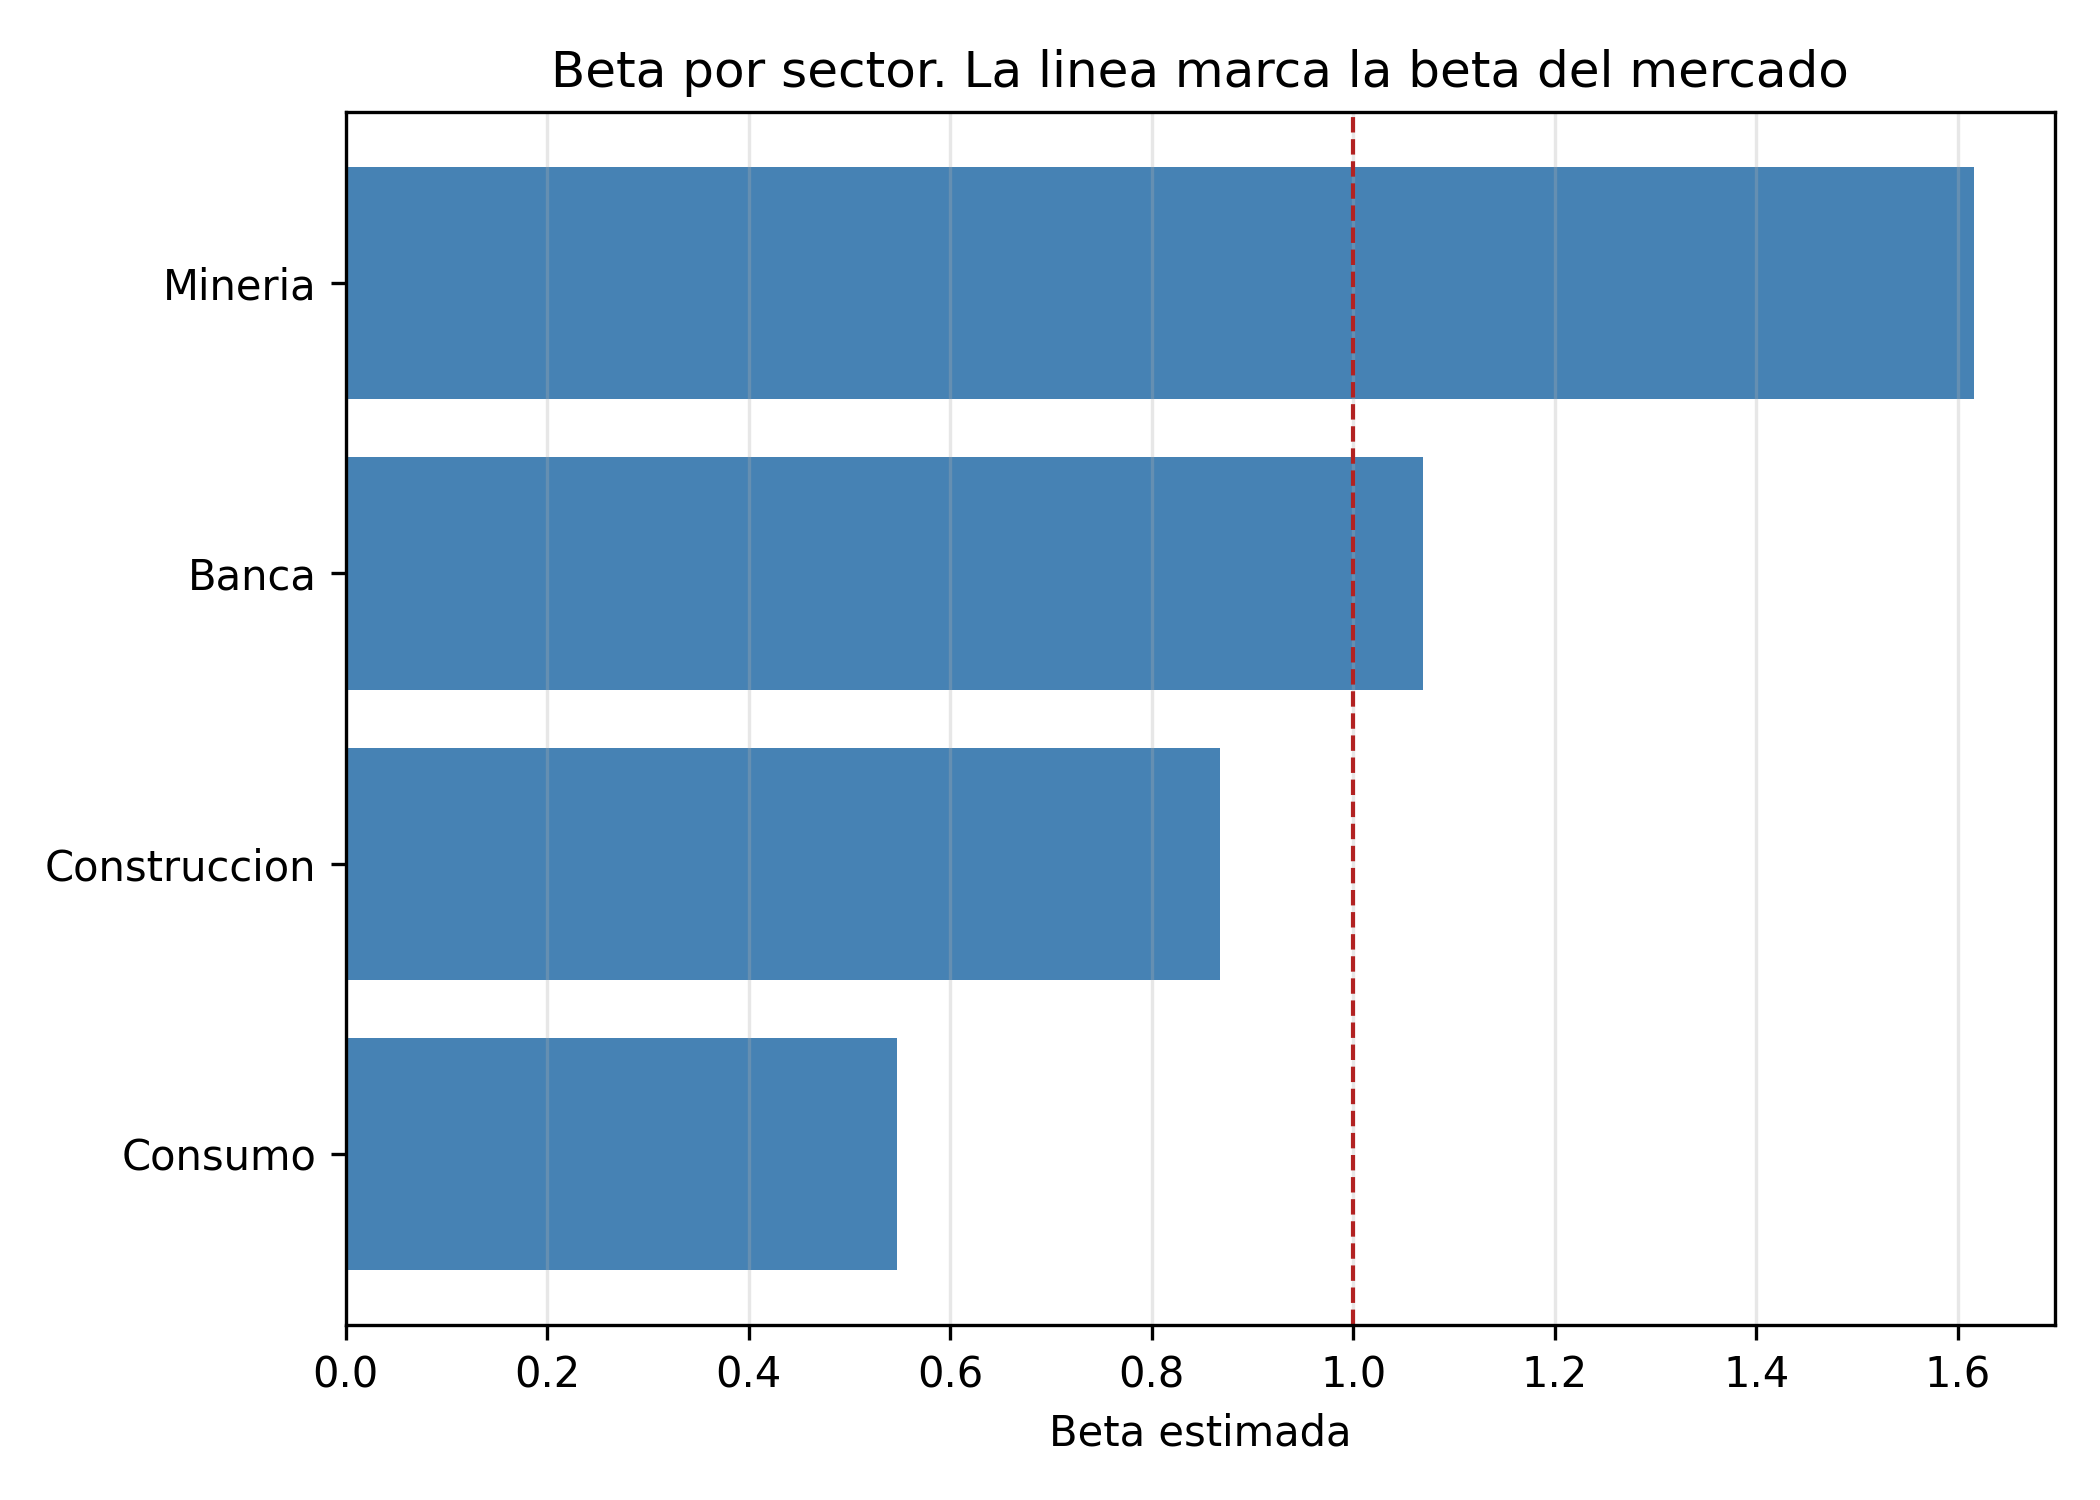
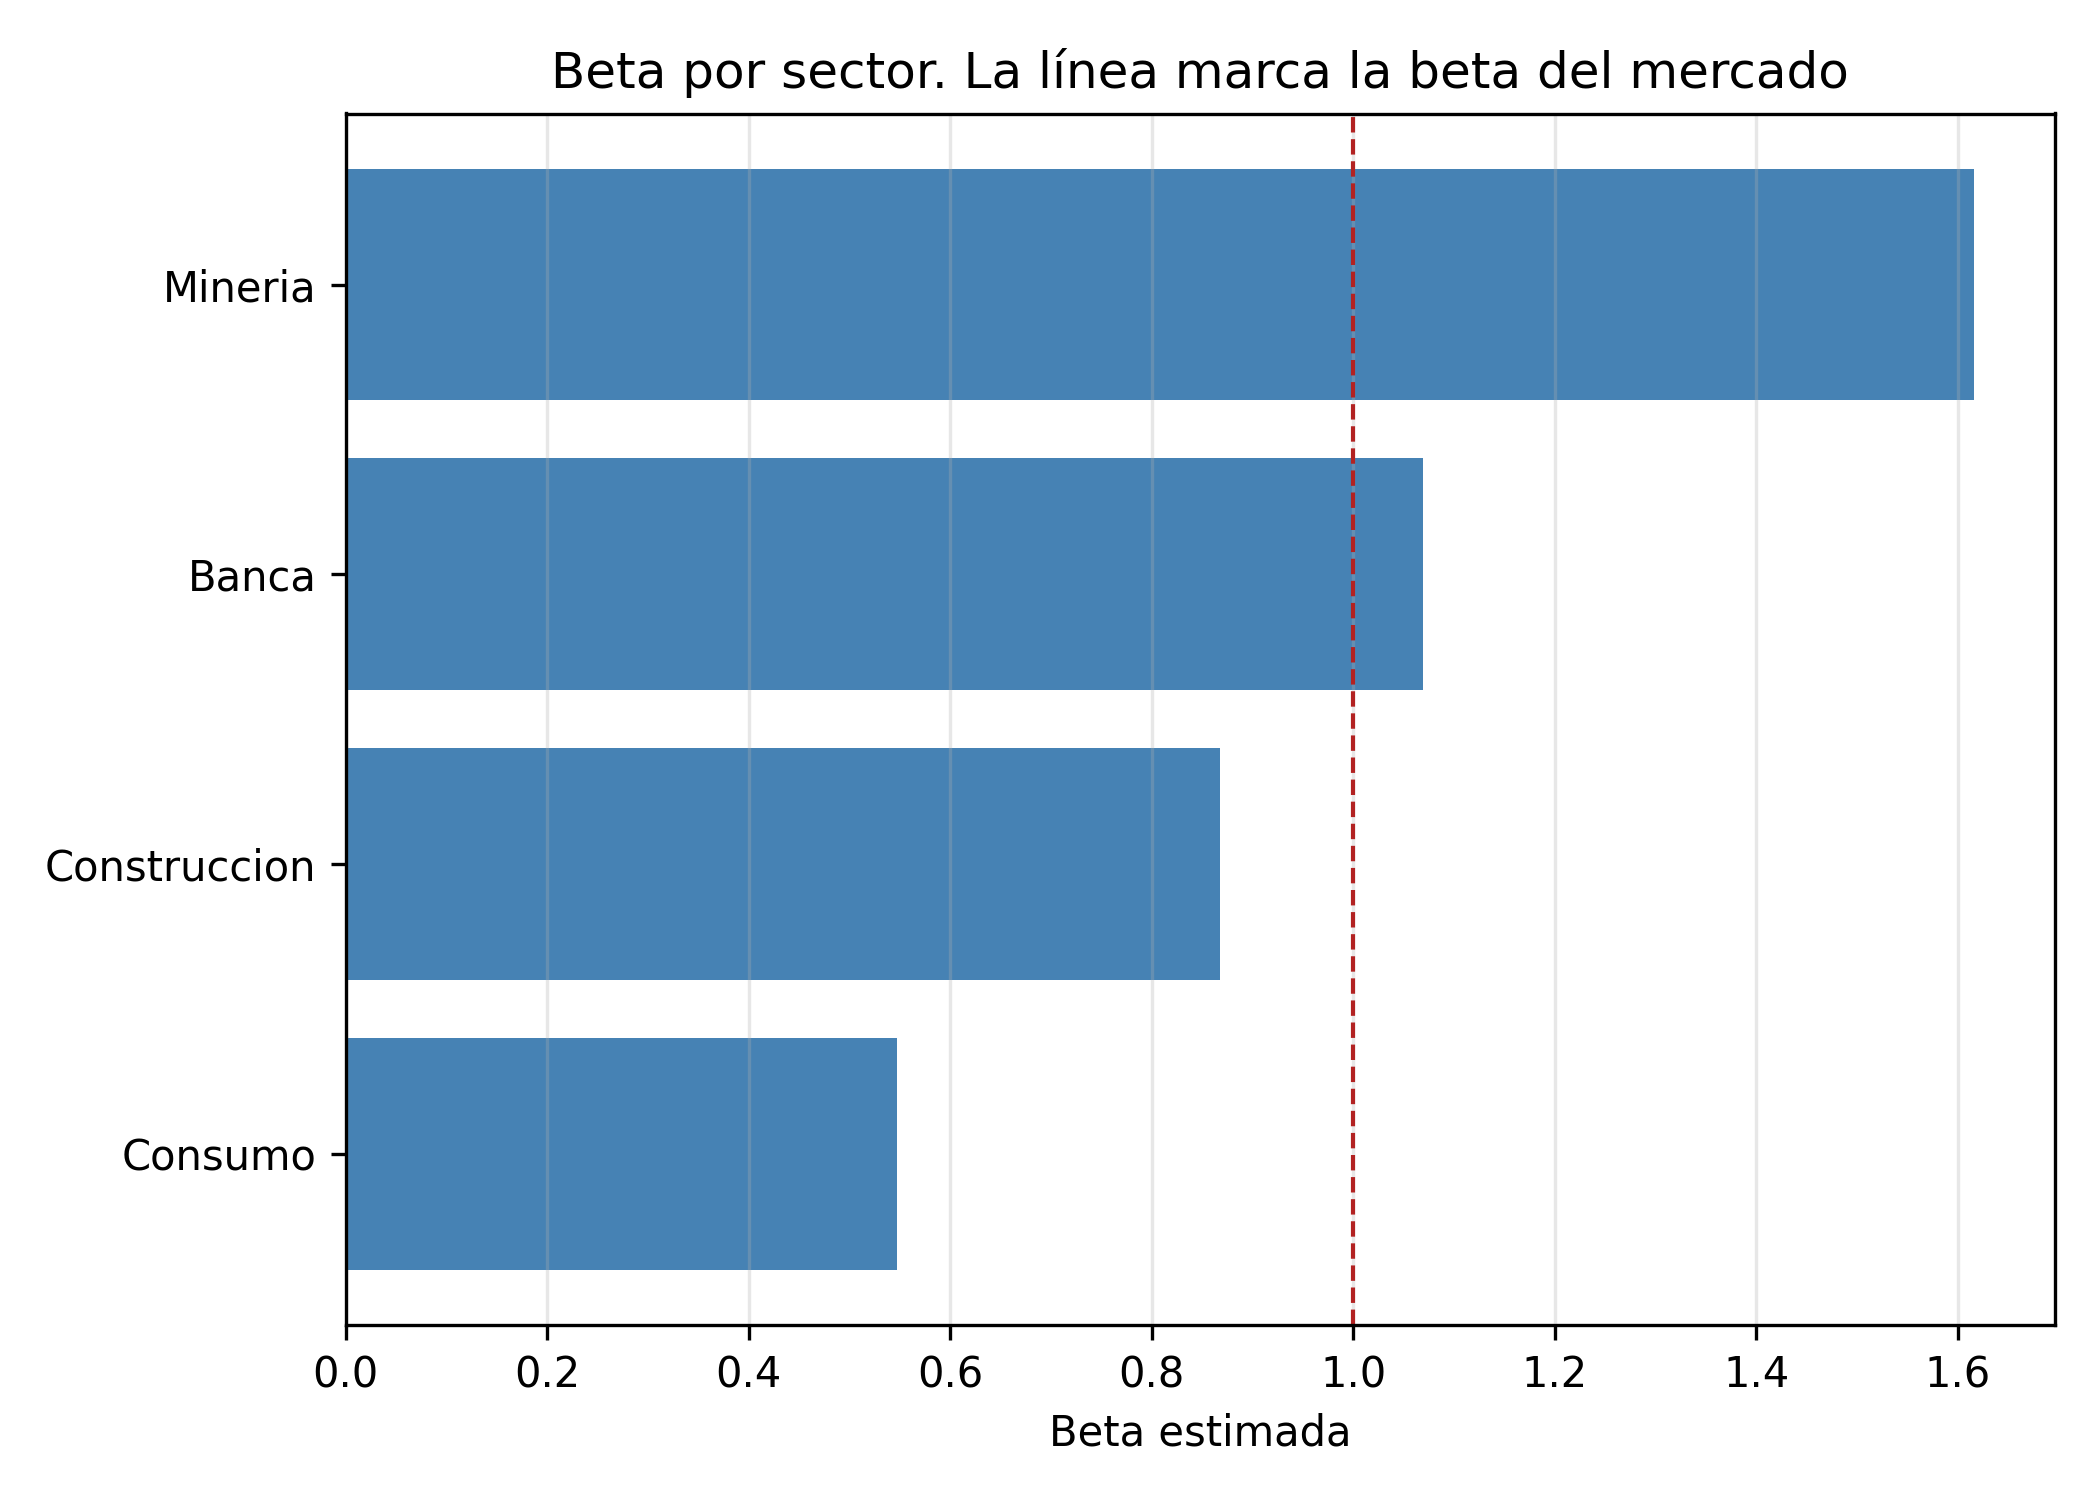
Fecha de extraccion en los scripts, tildes en figuras y evidencia del cotejo

Changed region(s): [[0.1857, 0.0307, 0.9595, 0.092], [0.0929, 0.368, 0.1548, 0.3987], [0.0929, 0.184, 0.1548, 0.2147]]

diff --git a/codigo/04_analisis.py b/codigo/04_analisis.py
@@ -1,7 +1,7 @@
 # Meglinho Sneyder Rojas Poma
 # Codigo de matricula: 2024200522B
 # Tema 61 del temario: Costo de capital por sector en la BVL: mineria, banca, consumo y construccion
-# Fecha de extraccion: COMPLETAR (AAAA-MM-DD, el dia que ejecutes la extraccion)
+# Fecha de extraccion: 2026-11-01
 
 """
 ANALISIS. Genera TODAS las tablas y figuras del articulo.
@@ -225,7 +225,7 @@ def main():
         sub = d[d.sector == s].sort_values("fecha")
         plt.plot(sub.fecha, sub.Y_retorno_sector.cumsum(), label=ETQ[s], lw=1)
     plt.xlabel("Fecha"); plt.ylabel("Retorno acumulado (%)")
-    plt.title("Evolucion acumulada de las cuatro carteras sectoriales, 2021-2026")
+    plt.title("Evolución acumulada de las cuatro carteras sectoriales, 2021-2026")
     plt.legend(); plt.grid(alpha=.3)
     guardar_figura("figura1_evolucion_sectorial")
 
@@ -235,7 +235,7 @@ def main():
         sub = d[d.sector == s].sort_values("fecha")
         eje.plot(sub.fecha, sub.Y_retorno_sector, lw=.5)
         eje.set_title(ETQ[s]); eje.grid(alpha=.3)
-        eje.set_ylabel("Variacion diaria (%)")
+        eje.set_ylabel("Variación diaria (%)")
     plt.suptitle("Retornos diarios por sector")
     guardar_figura("figura2_retornos_diarios")
 
@@ -260,7 +260,7 @@ def main():
     plt.barh(orden.index, orden["Beta"], color="steelblue")
     plt.axvline(1, color="firebrick", ls="--", lw=1)
     plt.xlabel("Beta estimada")
-    plt.title("Beta por sector. La linea marca la beta del mercado")
+    plt.title("Beta por sector. La línea marca la beta del mercado")
     plt.grid(axis="x", alpha=.3)
     guardar_figura("figura7_betas")
 
@@ -272,7 +272,7 @@ def main():
     plt.barh(orden.index, orden[col], color="darkseagreen")
     plt.axvline(rf_anual, color="firebrick", ls="--", lw=1)
     plt.xlabel("Costo de capital anual (%)")
-    plt.title("Costo de capital por sector. La linea marca la tasa libre de riesgo")
+    plt.title("Costo de capital por sector. La línea marca la tasa libre de riesgo")
     plt.grid(axis="x", alpha=.3)
     guardar_figura("figura8_costo_capital")
 

diff --git a/codigo/utilidades.py b/codigo/utilidades.py
@@ -1,7 +1,7 @@
 # Meglinho Sneyder Rojas Poma
 # Codigo de matricula: 2024200522B
 # Tema 61 del temario: Costo de capital por sector en la BVL: mineria, banca, consumo y construccion
-# Fecha de extraccion: COMPLETAR (AAAA-MM-DD, el dia que ejecutes la extraccion)
+# Fecha de extraccion: 2026-11-01
 
 """
 Funciones compartidas: registro en el log, hash SHA-256, parseo de fechas

diff --git a/codigo/01_extraccion_api.py b/codigo/01_extraccion_api.py
@@ -1,7 +1,7 @@
 # Meglinho Sneyder Rojas Poma
 # Codigo de matricula: 2024200522B
 # Tema 61 del temario: Costo de capital por sector en la BVL: mineria, banca, consumo y construccion
-# Fecha de extraccion: COMPLETAR (AAAA-MM-DD, el dia que ejecutes la extraccion)
+# Fecha de extraccion: 2026-11-01
 
 """
 VIA 1 - API. Yahoo Finance, fuente sugerida en el numeral 2.4.1.

diff --git a/codigo/02_scraping_web.py b/codigo/02_scraping_web.py
@@ -1,7 +1,7 @@
 # Meglinho Sneyder Rojas Poma
 # Codigo de matricula: 2024200522B
 # Tema 61 del temario: Costo de capital por sector en la BVL: mineria, banca, consumo y construccion
-# Fecha de extraccion: COMPLETAR (AAAA-MM-DD, el dia que ejecutes la extraccion)
+# Fecha de extraccion: 2026-11-01
 
 """
 VIA 2 - SCRAPING. Backend de la Bolsa de Valores de Lima.

diff --git a/codigo/00_config.py b/codigo/00_config.py
@@ -1,7 +1,7 @@
 # Meglinho Sneyder Rojas Poma
 # Codigo de matricula: 2024200522B
 # Tema 61 del temario: Costo de capital por sector en la BVL: mineria, banca, consumo y construccion
-# Fecha de extraccion: COMPLETAR (AAAA-MM-DD, el dia que ejecutes la extraccion)
+# Fecha de extraccion: 2026-11-01
 
 """
 Parametros compartidos por todos los scripts.

diff --git a/codigo/03_limpieza_datos.py b/codigo/03_limpieza_datos.py
@@ -1,7 +1,7 @@
 # Meglinho Sneyder Rojas Poma
 # Codigo de matricula: 2024200522B
 # Tema 61 del temario: Costo de capital por sector en la BVL: mineria, banca, consumo y construccion
-# Fecha de extraccion: COMPLETAR (AAAA-MM-DD, el dia que ejecutes la extraccion)
+# Fecha de extraccion: 2026-11-01
 
 """
 LIMPIEZA Y CONSTRUCCION DEL PANEL SECTORIAL.
